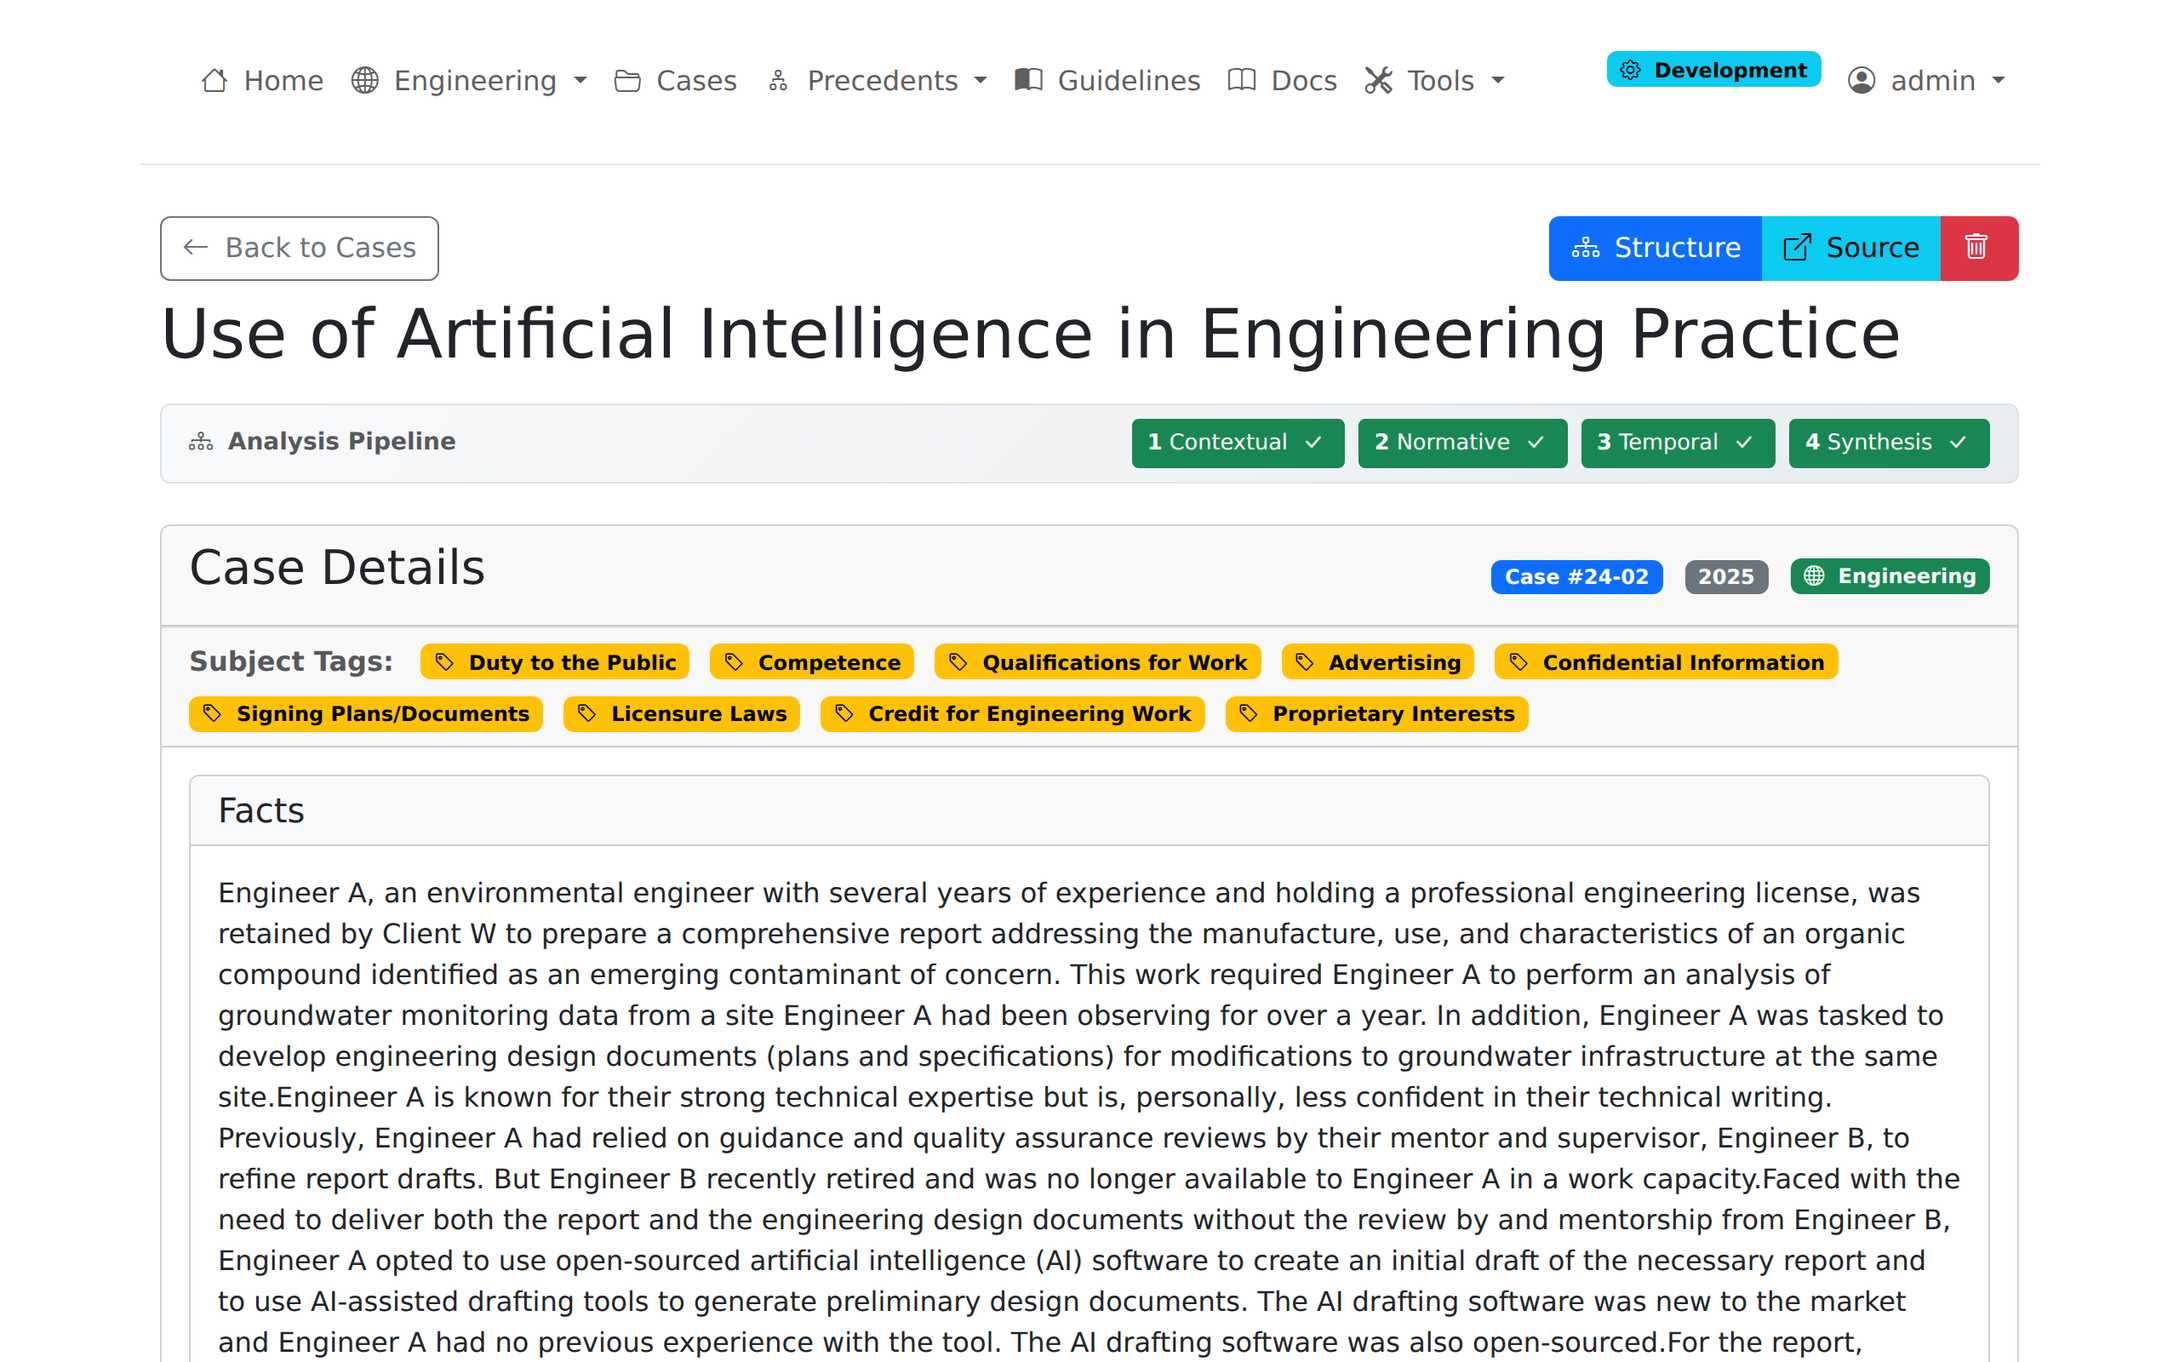
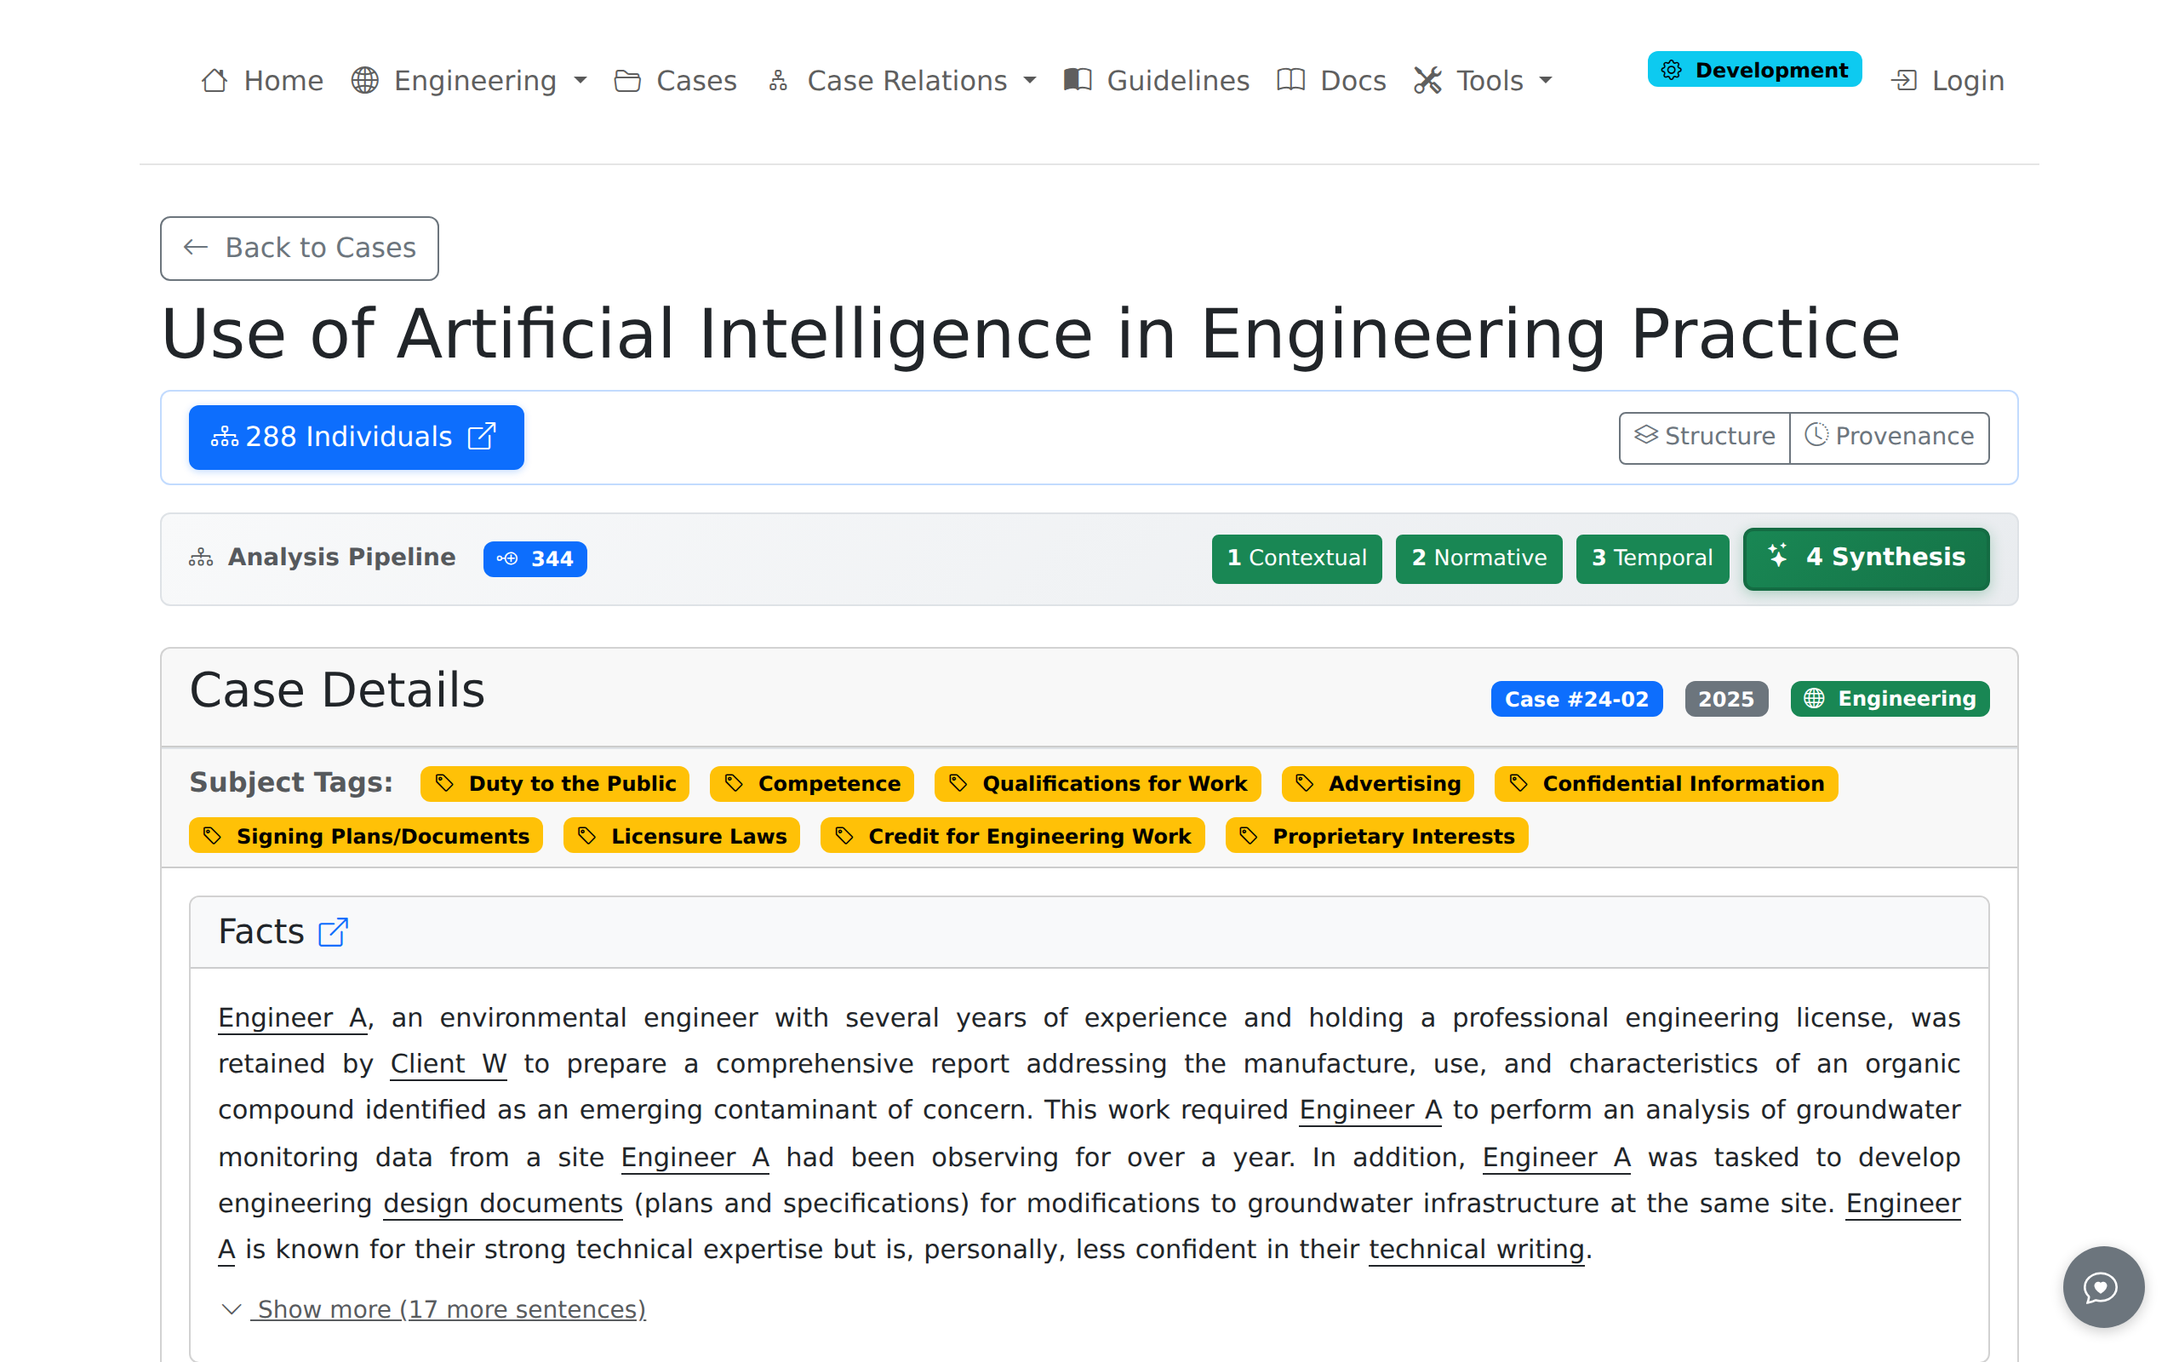
update docs to reflect interface changes

diff --git a/docs/viewing/browsing-cases.md b/docs/viewing/browsing-cases.md
@@ -15,22 +15,22 @@ Cases are organized by year with expandable cards displaying:
 
 | Element | Description |
 |---------|-------------|
-| **Title** | Case name with robot icon if agent-generated |
+| **Title** | Clickable case name linking to the detail page |
 | **Case Number** | Badge showing identifier (e.g., "Case #24-02") |
-| **Status Badge** | Green "Synthesized", blue "Extracted", or gray "Not Started" |
 | **Subject Tags** | Clickable tags for filtering (yellow badges) |
 | **Find Similar** | Link to precedent discovery |
-| **Questions** | Ethical questions posed to the board |
-| **Conclusions** | Board determinations |
+| **Questions** | Ethical questions posed to the board (expanded view) |
+| **Conclusions** | Board determinations (expanded view) |
+
+A view toggle in the page header switches between **compact** (titles and tags only) and **expanded** (questions and conclusions visible) modes. The selected mode persists across browser sessions.
 
 ### Filtering
 
-The filter bar provides several options:
+The filter bar provides filtering options:
 
 | Filter | Description |
 |--------|-------------|
 | **World Filter** | Dropdown to filter by domain (e.g., Engineering Ethics) |
-| **Status Filter** | Dropdown with "All Cases", "Extracted+", "Synthesized" options |
 | **Tag Filter** | Clickable tags to filter by subject category |
 
 #### Tag Filtering
@@ -61,14 +61,25 @@ Subject tags provide topical classification. For NSPE cases, these come from the
 
 ## Case Detail Page
 
-Click **View Details** on any case card to access the full case page at `/cases/<id>`.
+Click the case title on any case card to access the full case page at `/cases/<id>`.
 
 ![Case Detail](../assets/images/screenshots/case-detail-content.png)
-*Individual case page showing the analysis pipeline status and case sections*
 
-### Pipeline Status
+### Context Bar
 
-Below the case title, numbered step buttons show extraction pipeline progress:
+Below the case title, a context bar displays key metadata and navigation:
+
+| Element | Description |
+|---------|-------------|
+| **OntServe Link** | Links to the case ontology on OntServe (when entities are committed) |
+| **Entity Count** | Badge showing total extracted entities |
+| **Transformation** | Case transformation type (Transfer, Stalemate, Oscillation, Phase Lag) |
+| **Structure** | View document sections and embeddings |
+| **Provenance** | View extraction history and session data |
+
+### Pipeline Status (Authenticated Users)
+
+Authenticated users see a pipeline status bar with numbered step buttons below the context bar:
 
 | Button | Name | Content |
 |--------|------|---------|
@@ -79,16 +90,18 @@ Below the case title, numbered step buttons show extraction pipeline progress:
 
 Step button states indicate completion:
 
-- **Filled (green)** - Step complete, click to view results
-- **Outline** - Step available but not run
-- **Lock icon** - Step locked pending prerequisites
+- **Filled (green)** -- Step complete, click to view results
+- **Outline** -- Step available but not run
+- **Lock icon** -- Step locked pending prerequisites
+
+The pipeline status bar and associated step buttons are hidden for unauthenticated users in production.
 
 ### Header Actions
 
 | Button | Function |
 |--------|----------|
 | **Back to Cases** | Return to case list |
-| **Structure** | View document sections and embeddings |
+| **Pipeline** | Open the case pipeline dashboard (authenticated users only) |
 | **Source** | Link to original source (if available) |
 
 ### Case Sections

diff --git a/docs/getting-started/first-login.md b/docs/getting-started/first-login.md
@@ -43,8 +43,8 @@ The Cases page (`/cases/`) displays all uploaded cases with:
 
 - Year grouping for chronological organization
 - Subject tags for filtering by topic
-- Pipeline status indicators (pending, in progress, complete)
-- Quick actions for each case
+- Question and conclusion previews (expandable/collapsible via view toggle)
+- Compact and expanded view modes (persisted in browser storage)
 
 ![Case Repository](../assets/images/screenshots/cases-list-content.png)
 
@@ -53,9 +53,10 @@ The Cases page (`/cases/`) displays all uploaded cases with:
 Each case has a detail page showing:
 
 - Case title, reference number, and metadata
+- Context bar with OntServe entity link, transformation badge, and utility buttons (**Structure**, **Provenance**)
 - Full narrative with Facts and Discussion sections
-- **Structure** button - View document sections and embeddings
-- **Numbered step buttons** (1-4) - Launch extraction steps in sequence
+- Interactive RDF triple labels linking to related cases
+- Pipeline status bar and step buttons (visible to authenticated users only in production)
 
 ![Case Detail](../assets/images/screenshots/case-detail-content.png)
 
@@ -71,19 +72,19 @@ The Structure view (`/cases/<id>/structure`) provides:
 
 ## Extraction Pipeline
 
-The pipeline (`/scenario_pipeline/case/<case_id>`) provides step-by-step case analysis. A sidebar navigation shows all steps and their completion status.
+The pipeline provides step-by-step case analysis (requires authentication). Access it from the case detail page via the **Pipeline** button or the per-case pipeline dashboard at `/cases/<id>/pipeline`.
 
 | Step | Name | Description | Entity Types |
 |------|------|-------------|-------------|
 | 1 | Contextual Framework | Extract from Facts and Discussion sections | Roles (R), States (S), Resources (Rs) |
 | 2 | Normative Requirements | Extract from Facts and Discussion sections | Principles (P), Obligations (O), Constraints (Cs), Capabilities (Ca) |
 | 3 | Temporal Dynamics | Unified extraction via LangGraph | Actions (A), Events (E), causal chains, Allen relations |
-| Reconcile | Entity Deduplication | Merge overlapping entities across passes | - |
+| Reconcile | Entity Deduplication | Merge overlapping entities across passes | -- |
 | 4 | Whole-Case Synthesis | Multi-phase analysis (2A-2E, Phase 3, Phase 4) | Provisions, Precedents, Questions, Conclusions, Decision Points, Resolution Patterns, Causal-Normative Links, Question Emergence |
 
 ### Pipeline Sidebar
 
-The sidebar shows all pipeline steps with checkmarks for completed steps. Step 4 has three sub-views: Extraction, Review, and Full View.
+The sidebar shows all pipeline steps with checkmarks for completed steps. Step 4 has sub-views: Extraction, Review, and Full View.
 
 ![Pipeline Overview](../assets/images/screenshots/pipeline-overview-content.png)
 
@@ -130,7 +131,7 @@ The network view (`/cases/precedents/network`) visualizes case relationships:
 
 ## Pipeline Automation
 
-For batch processing, the Pipeline Dashboard (`/pipeline/dashboard`) shows:
+For batch processing, **Tools** > **Batch Processing** (`/pipeline/dashboard`) shows:
 
 - Service status (Redis, Celery, queue depth)
 - Active pipeline runs with progress bars

diff --git a/docs/getting-started/welcome.md b/docs/getting-started/welcome.md
@@ -37,7 +37,7 @@ Cases are queued for batch processing through all extraction steps:
 
 Pipeline mode is suitable for processing multiple cases after the extraction process is understood.
 
-Manual mode is accessed from the numbered step buttons at the top of any case page. Steps must be processed in sequence; completed steps display as green. See [Running Extractions](../analysis/running-extractions.md) for details. Pipeline mode is accessed from **Tools > Pipeline Dashboard** (requires admin login).
+Manual mode is accessed from the case pipeline dashboard (requires login). Steps must be processed in sequence; completed steps display as green. See [Running Extractions](../analysis/running-extractions.md) for details. Pipeline mode is accessed from **Tools** > **Batch Processing** (requires admin login).
 
 ## Home Page Entry Points
 
@@ -59,14 +59,15 @@ The left panel displays available professional domains. The current implementati
 
 The folder icon opens the case browser for a domain.
 
-## Linked Data
+## Structured Knowledge
 
-The right panel shows the connection to OntServe and the primary ontology:
+The right panel displays the ontology connection and access points:
 
-- **ProEthica Intermediate Ontology** - Nine-Component Framework for professional ethics analysis. Entities extracted from cases are linked to this ontology.
-- **MCP Connected** badge indicates OntServe is reachable
+- **ProEthica Intermediate Ontology** -- Nine-Component Framework for professional ethics analysis. Entities extracted from cases are linked to this ontology.
+- **Ontology Graph** link opens the visual ontology browser on OntServe
+- **Browse Entities** link opens the entity browser filtered to ProEthica concepts
 
-A "View Ontology" link opens the ontology browser on OntServe. Ontologies are managed via the [OntServe](https://ontserve.ontorealm.net) web interface.
+Ontologies are managed via the [OntServe](https://ontserve.ontorealm.net) web interface.
 
 ## Analysis Workflow
 

diff --git a/docs/analysis/pipeline-automation.md b/docs/analysis/pipeline-automation.md
@@ -65,7 +65,7 @@ PYTHONPATH=/path/to/parent:$PYTHONPATH python run.py
 
 ### Accessing Dashboard
 
-Navigate to: **Tools > Pipeline Dashboard** (requires admin login)
+Navigate to: **Tools > Batch Processing** (requires admin login)
 
 Direct URL: `/pipeline/dashboard`
 
@@ -125,9 +125,9 @@ curl http://localhost:5000/pipeline/api/service-status
 
 ### Accessing the Queue
 
-Navigate to: **Pipeline Dashboard** > **Manage Queue** button
+Navigate to: **Tools** > **Batch Queue** or click **Manage Queue** from the batch processing page.
 
-Or direct URL: `/pipeline/queue`
+Direct URL: `/pipeline/queue`
 
 ![Pipeline Queue](../assets/images/screenshots/pipeline-queue-content.png)
 *Queue management page showing pending cases and queue controls*
@@ -174,13 +174,13 @@ To process a single case:
 
 1. Go to case detail page
 2. Click **Queue for Processing**
-3. Monitor in Pipeline Dashboard
+3. Monitor in the batch processing dashboard
 
 ### Batch Processing
 
 To process multiple cases:
 
-1. Go to Pipeline Dashboard
+1. Go to **Tools** > **Batch Processing**
 2. Select cases from list
 3. Click **Add to Queue**
 4. Monitor progress
@@ -237,7 +237,7 @@ To reprocess a completed case:
 
 ### Clear Case
 
-To clear without reprocessing, use the Reprocess button on the Pipeline Dashboard which clears existing entities before re-running extraction.
+To clear without reprocessing, use the Reprocess button on the batch processing page, which clears existing entities before re-running extraction.
 
 ## Pipeline Architecture
 

diff --git a/docs/viewing/viewing-extractions.md b/docs/viewing/viewing-extractions.md
@@ -4,14 +4,14 @@ Completed cases display extracted entities organized by pipeline step. The extra
 
 ## Accessing Extraction Results
 
-From any case detail page, click the numbered step buttons to view extraction results:
+Extraction results are organized by pipeline step:
 
-- **Step 1** - Contextual Framework (Roles, States, Resources)
-- **Step 2** - Normative Requirements (Principles, Obligations, Constraints, Capabilities)
-- **Step 3** - Temporal Dynamics (Actions, Events, causal chains, temporal relations)
-- **Step 4** - Whole-Case Synthesis (Code Provisions, Precedent References, Ethical Questions, Conclusions, Decision Points, Resolution Patterns, Causal-Normative Links, Question Emergence)
+- **Step 1** -- Contextual Framework (Roles, States, Resources)
+- **Step 2** -- Normative Requirements (Principles, Obligations, Constraints, Capabilities)
+- **Step 3** -- Temporal Dynamics (Actions, Events, causal chains, temporal relations)
+- **Step 4** -- Whole-Case Synthesis (Code Provisions, Precedent References, Ethical Questions, Conclusions, Decision Points, Resolution Patterns, Causal-Normative Links, Question Emergence)
 
-Completed steps show a green filled button. Click any completed step to view its results.
+Authenticated users access results via the pipeline status bar on the case detail page. Completed steps show a green filled button. The case detail page itself displays extracted entities as interactive RDF triple labels for all users.
 
 ## Entity Review Display
 

diff --git a/docs/admin-guide/index.md b/docs/admin-guide/index.md
@@ -27,7 +27,7 @@ A progress indicator shows completion status across the eight-step workflow from
 |----------|----------|---------|
 | [Prompt Editor](prompt-editor.md) | `/tools/prompts` | Edit extraction templates |
 | [Validation Studies](validation-studies.md) | `/admin/validation` | Manage validation experiments |
-| [Pipeline Management](pipeline-management.md) | `/pipeline/dashboard` | Monitor batch processing |
+| [Pipeline Management](pipeline-management.md) | `/pipeline/dashboard` | Batch processing and queue management |
 | [User Management](user-management.md) | `/admin/users` | Manage user accounts |
 
 ## System Configuration
@@ -51,4 +51,4 @@ The Tools dropdown organizes into three groups:
 
 - **Academic References** - Available to all users
 - **Linked Data** - OntServe Web, Browse ProEthica Ontologies
-- **Admin Tools** (admin login required) - Batch Processing, Batch Queue, Validation Studies, Prompt Editor
+- **Admin Tools** (admin login required) -- Batch Processing, Batch Queue, Validation Studies, Prompt Editor

diff --git a/docs/index.md b/docs/index.md
@@ -83,9 +83,7 @@ ProEthica guides case analysis through a structured workflow:
 | Reconcile | Entity Deduplication | Merge overlapping entities across passes |
 | 4 | Whole-Case Synthesis | Provisions, Precedents, Questions, Conclusions, Decision Points, Resolution Patterns, Causal-Normative Links, Question Emergence |
 
-Steps 1-2 extract from Facts and Discussion sections separately. Step 3 performs a unified extraction from the full case text. Step 4 synthesizes across all extracted entities and case text, producing 8 additional entity types (17 total).
-
-![Pipeline Overview](assets/images/screenshots/pipeline-overview-content.png)
+Steps 1-2 extract from Facts and Discussion sections separately. Step 3 performs a unified extraction from the full case text. Step 4 synthesizes across all extracted entities and case text, producing 8 additional entity types (17 total). Pipeline operations require authentication; case browsing and entity viewing are available without login.
 
 ## Citation
 

diff --git a/docs/analysis/running-extractions.md b/docs/analysis/running-extractions.md
@@ -21,9 +21,7 @@ After Steps 1-3, the pipeline continues with Reconcile (entity deduplication), O
 
 ### Access the Pipeline
 
-Navigate to any case detail page. The numbered step buttons appear at the top:
-
-![Case Step Buttons](../assets/images/screenshots/case-step-buttons-content.png)
+Navigate to any case detail page and click the **Pipeline** button in the top action bar, or access the per-case pipeline dashboard directly at `/cases/<id>/pipeline`. The pipeline status bar with numbered step buttons is visible to authenticated users.
 
 Steps must be processed in sequence. Completed steps display as green; incomplete steps show the step number. Click any available step to begin extraction.
 

diff --git a/docs/admin-guide/pipeline-management.md b/docs/admin-guide/pipeline-management.md
@@ -4,7 +4,7 @@ The pipeline dashboard provides batch processing controls and status monitoring 
 
 ## Pipeline Dashboard
 
-Navigate to **Tools** > **Pipeline Dashboard** or direct URL: `/pipeline/dashboard`
+Navigate to **Tools** > **Batch Processing** or direct URL: `/pipeline/dashboard`
 
 ![Pipeline Dashboard](../assets/images/screenshots/pipeline-dashboard-content.png)
 
@@ -21,7 +21,7 @@ The dashboard displays:
 
 ## Queue Management
 
-Navigate to **Tools** > **Queue Management** or direct URL: `/pipeline/queue`
+Navigate to **Tools** > **Batch Queue** or direct URL: `/pipeline/queue`
 
 ### Queue Operations
 

diff --git a/docs/analysis/uploading-cases.md b/docs/analysis/uploading-cases.md
@@ -114,9 +114,9 @@ User-created scenarios for analysis should follow the Facts/Discussion structure
 
 ## Batch Upload
 
-For multiple cases, use the Pipeline Dashboard (requires admin login):
+For multiple cases, use the batch processing interface (requires admin login):
 
-1. Navigate to **Tools > Pipeline Dashboard**
+1. Navigate to **Tools** > **Batch Processing**
 2. Use **Queue** tab for batch operations
 3. Upload cases through batch interface
 
